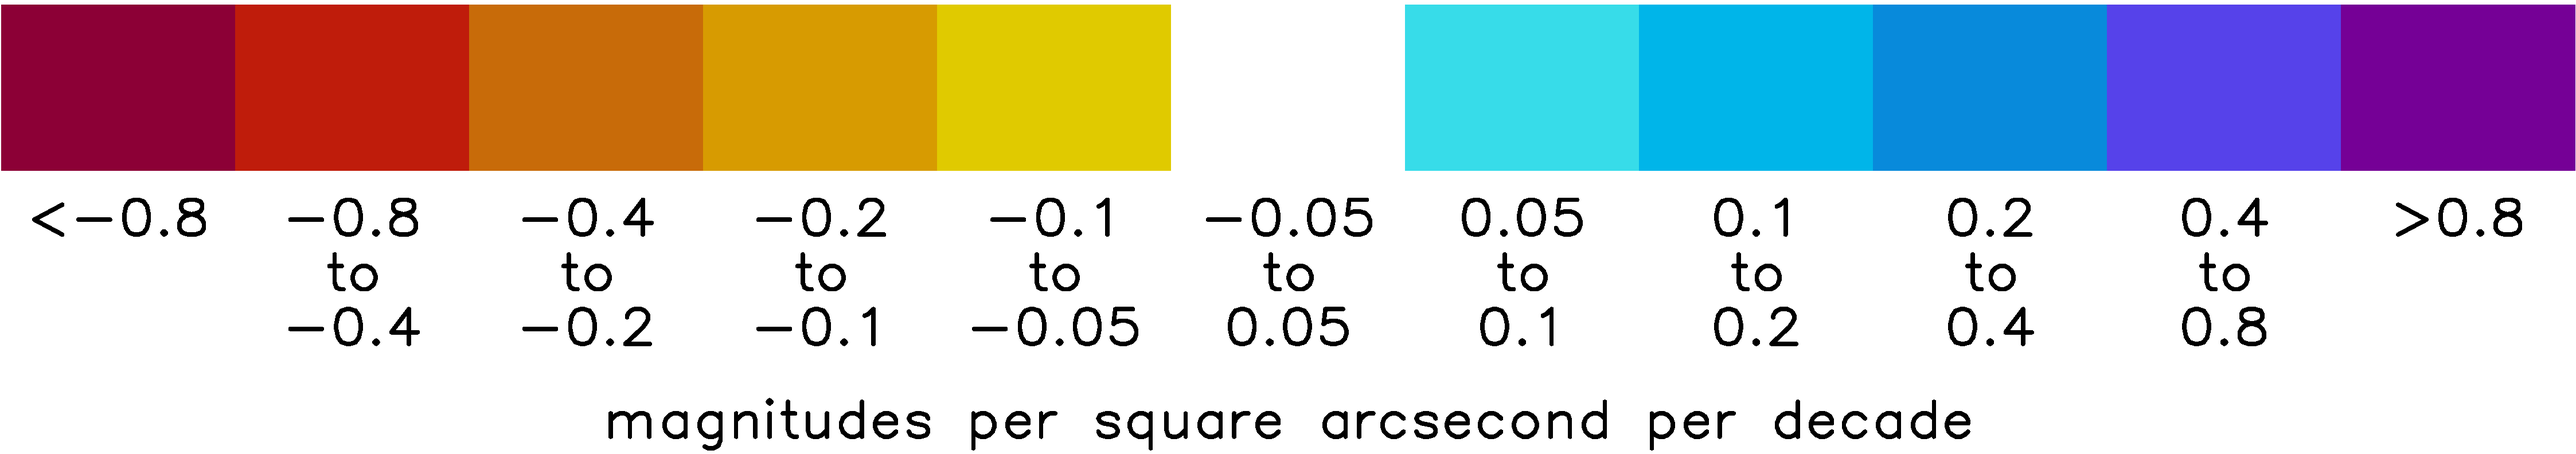
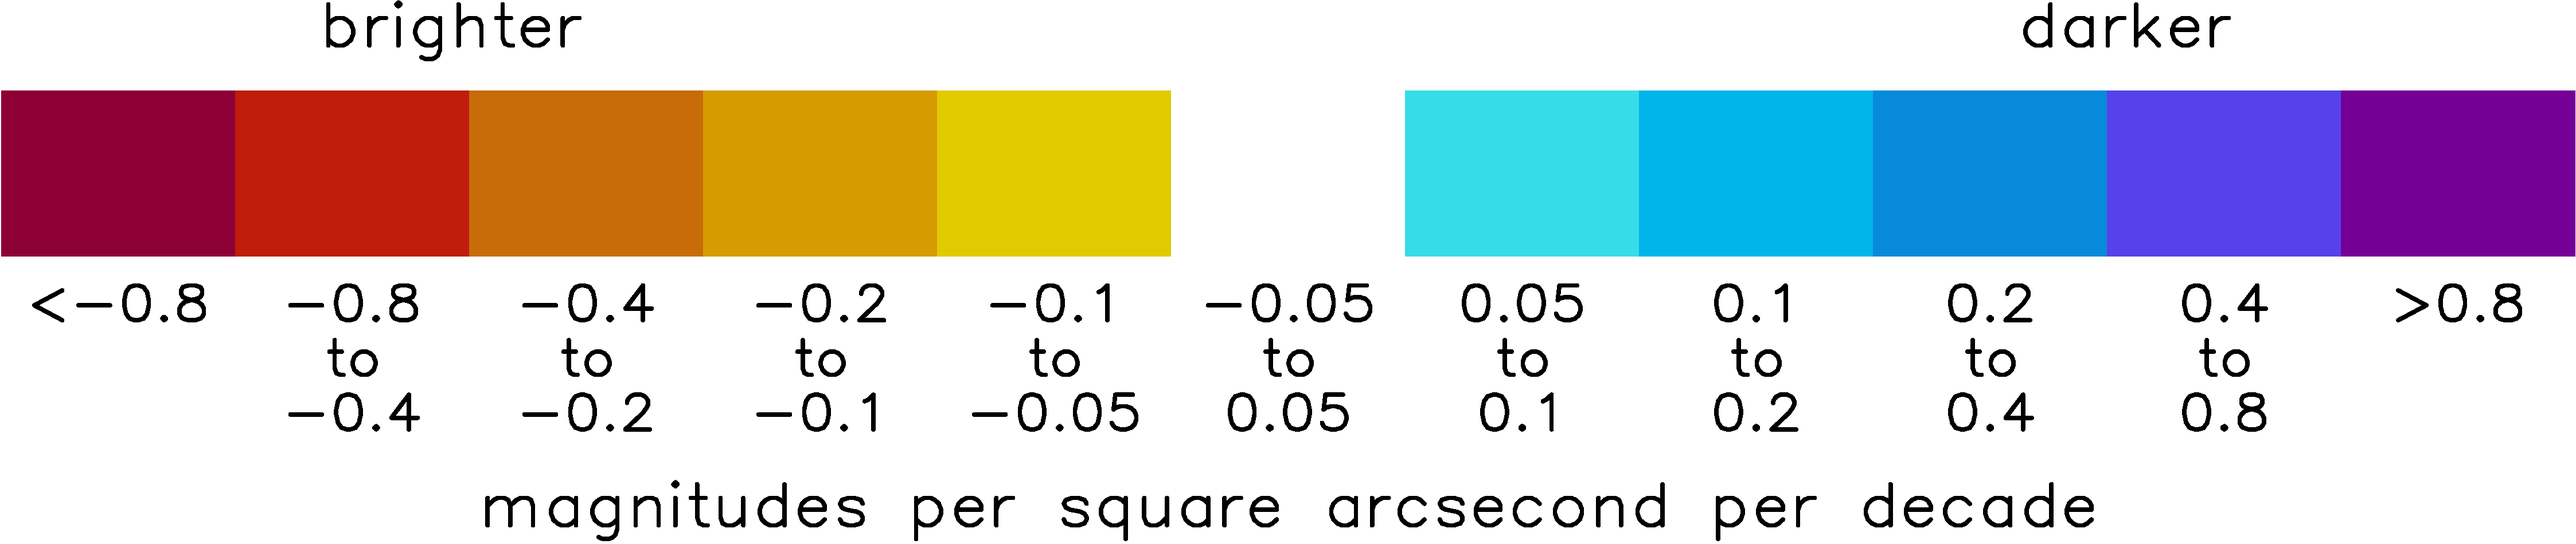
update trend description and legend

diff --git a/astronomy/lp2020/trend.html b/astronomy/lp2020/trend.html
@@ -121,7 +121,7 @@ margin-top:10px;
 <div id="main">
   <p class="bigbold">Light Pollution Trends (2014-2020)</p>
 
-  <p class="medium">This map shows the trends in light pollution over the years 2014-2020. The warm colors mean that light pollution is increasing (change in magnitude is negative) and the cool colors mean that light pollution is decreasing (change in magnitude is positive). White means either no trend or the trend is not statistically significant (i.e. trend is not consistently positive or negative and therefore likely not real). The Theil-Sen trend estimation method was used to calculate trends from the annual composites for each year from 2014-2020. The (two-sided) Mann-Kendall Test for a monotonic trend was used to assess statistical significance (90% confidence level). </p>
+  <p class="medium">This map shows the trends in light pollution over the years 2014-2020. The red/orange colors mean that light pollution is increasing (change in magnitude is negative) and the blue colors mean that light pollution is decreasing (change in magnitude is positive). White means either no trend or the trend is not statistically significant (i.e. trend is not consistently positive or negative and therefore likely not real). The Theil-Sen trend estimation method was used to calculate trends from the annual composites for each year from 2014-2020. The (two-sided) Mann-Kendall Test for a monotonic trend was used to assess statistical significance (90% confidence level). </p>
 
   <img src="trend_colors.png" style="float:center">
 
